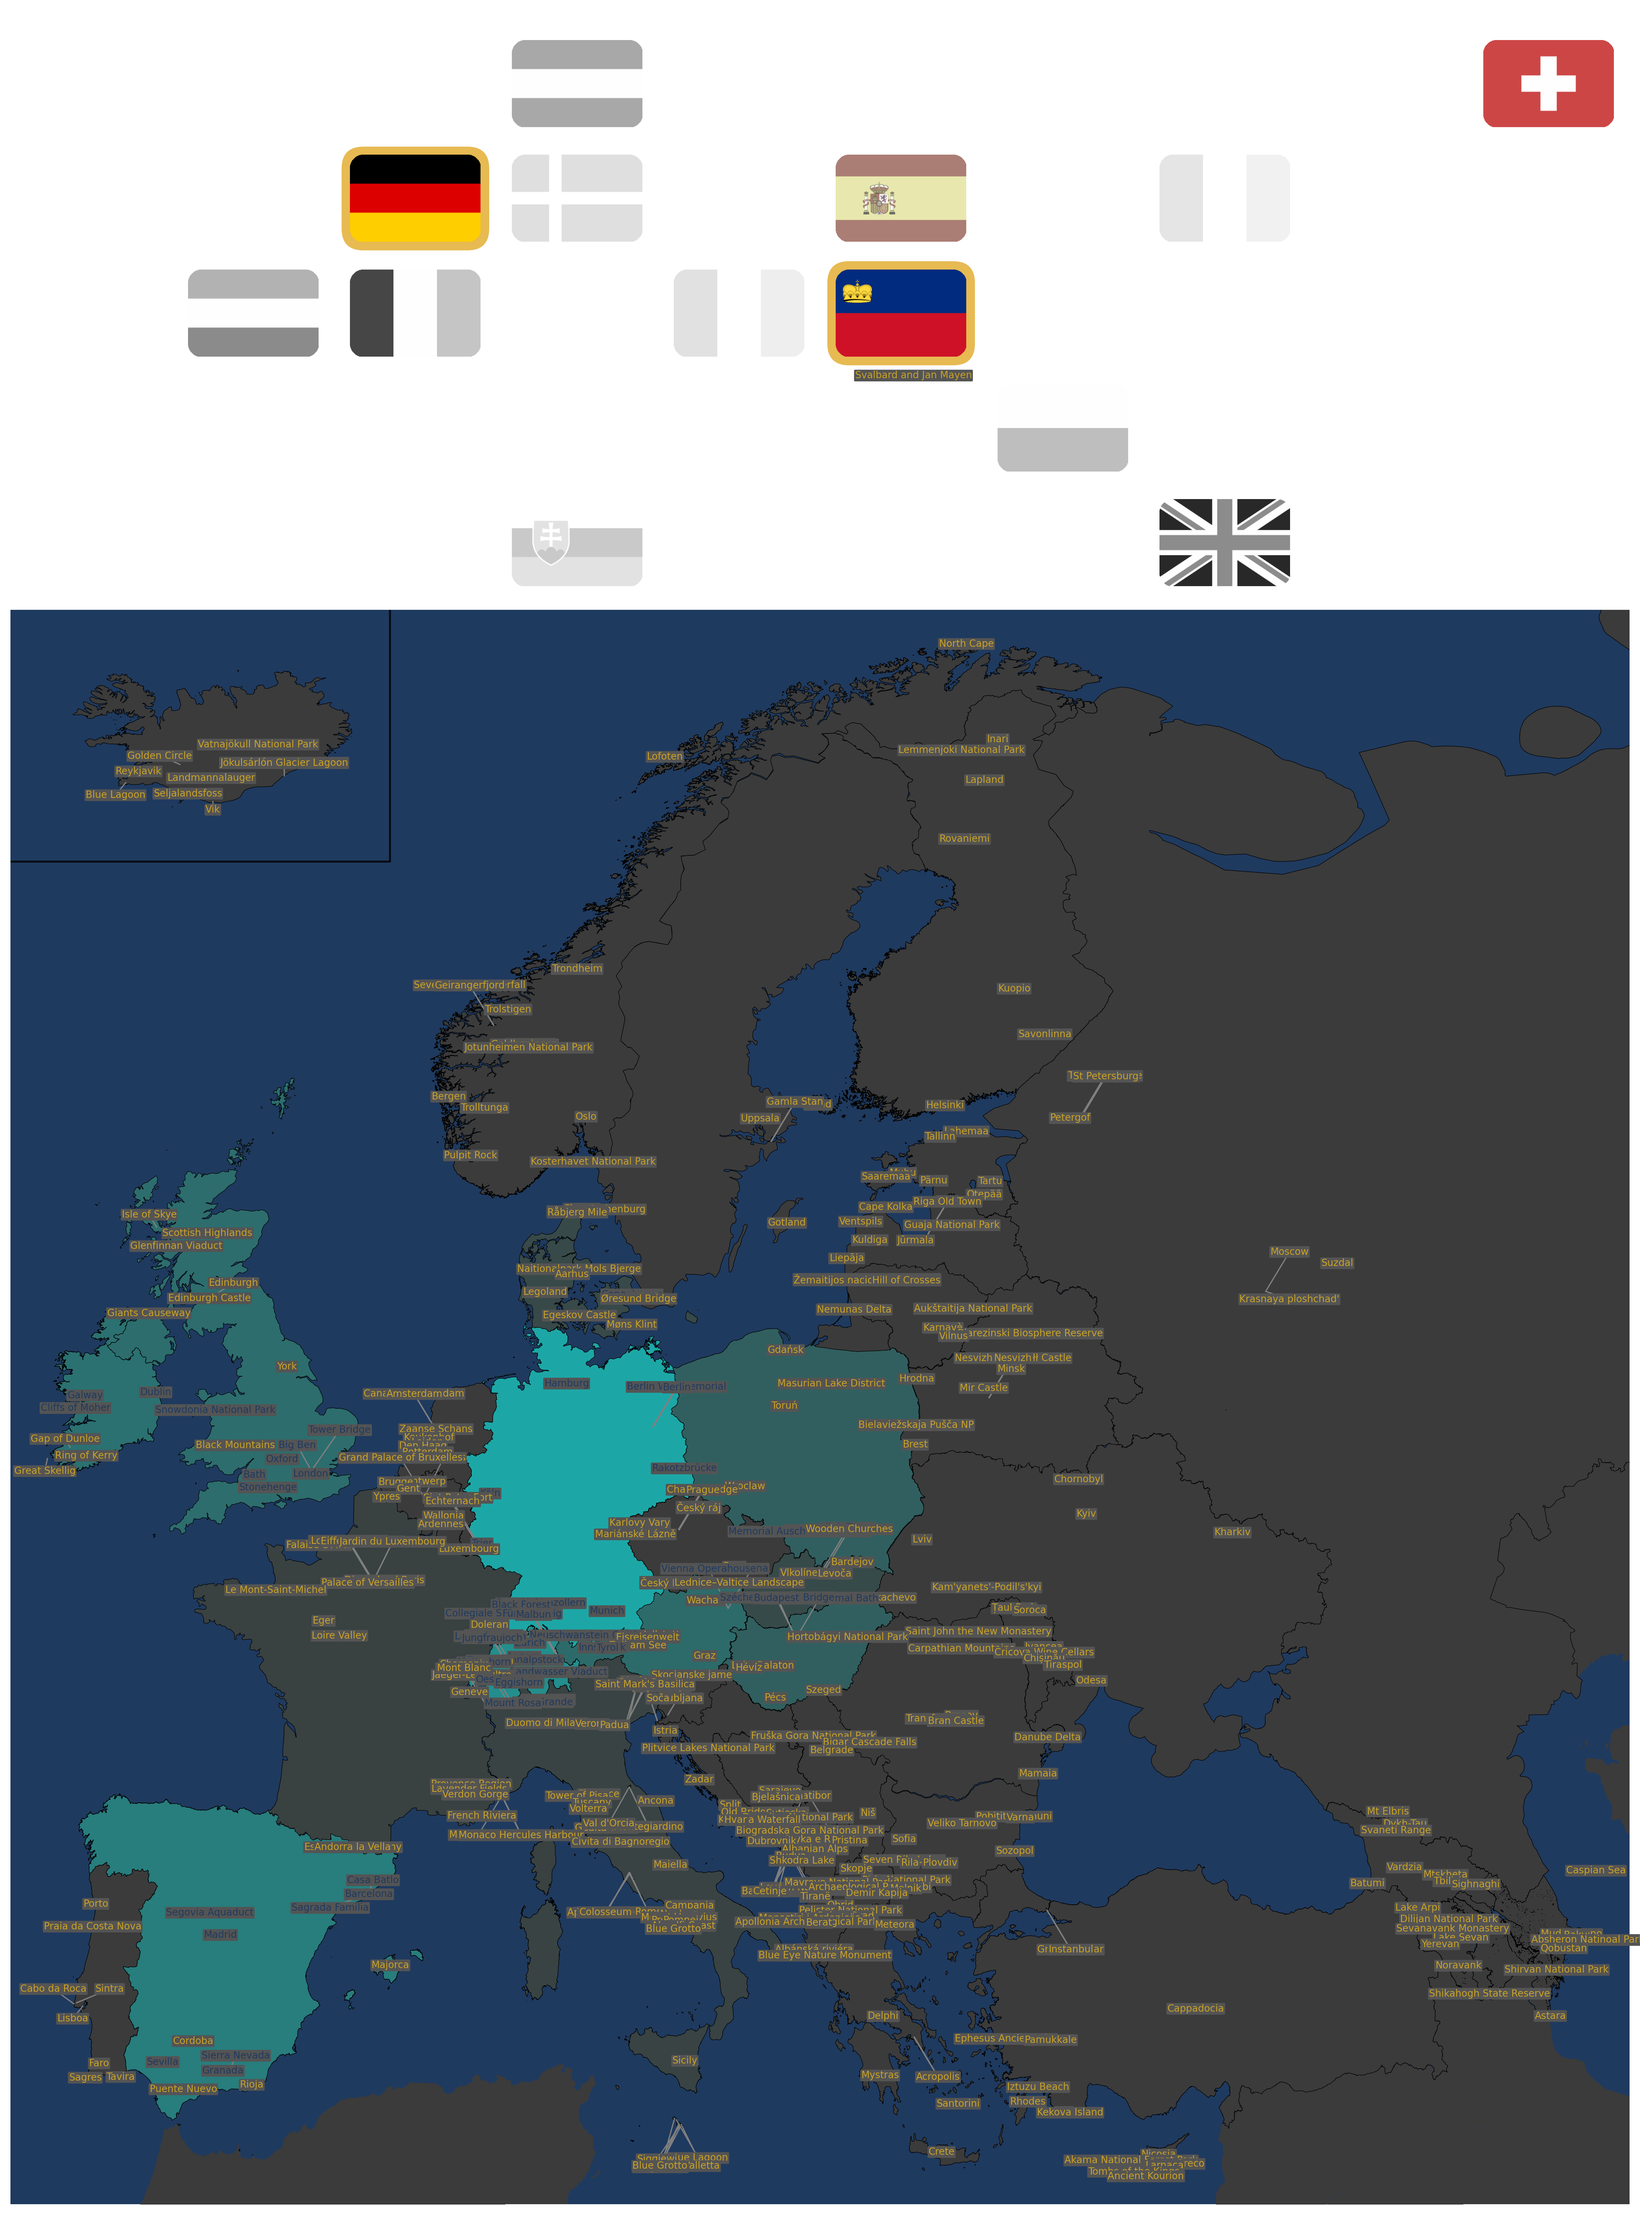
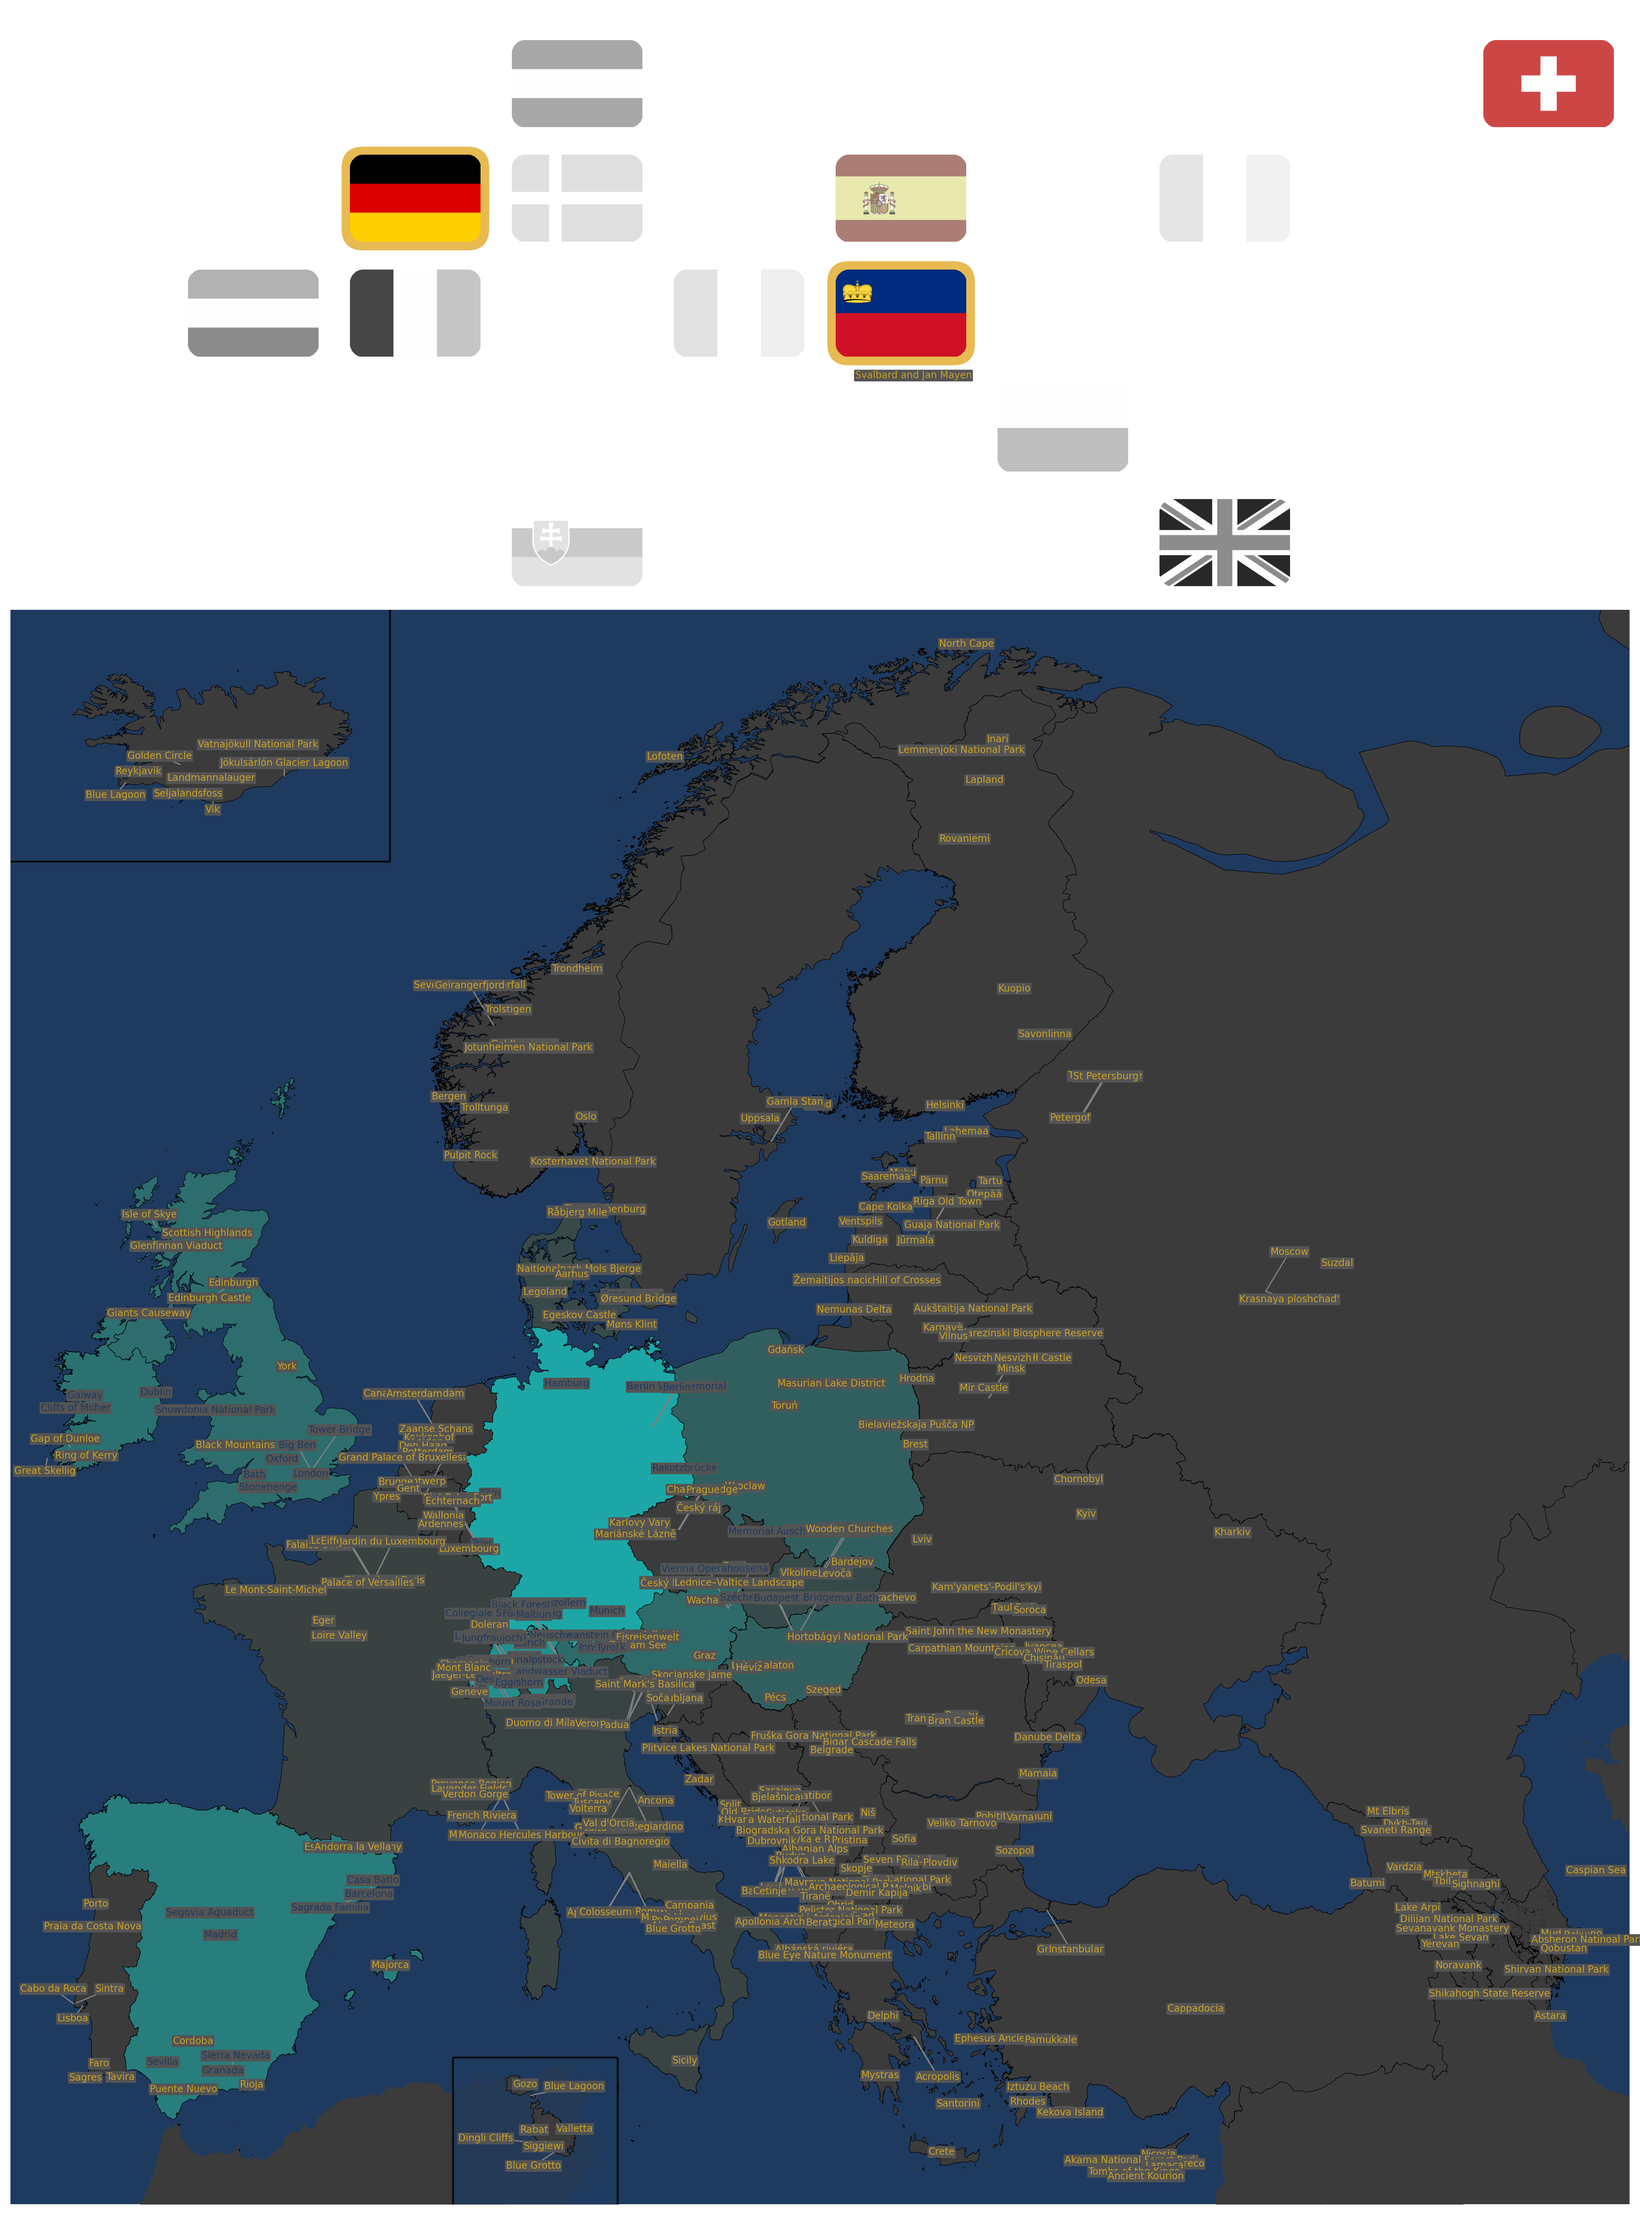
update malta

Changed region(s): [[0.2497, 0.934, 0.4369, 0.9962]]

diff --git a/plotting/plotting_manager.py b/plotting/plotting_manager.py
@@ -173,6 +173,9 @@ class PlotManager:
 
             submap_gdf.plot(ax=ax, edgecolor="black", linewidth=1/self.plot_scale, color=color, alpha=1)
 
+            if submap["Name"] == "MT":
+                print("Malta")
+
         #def expand_regions(gdf, expansions):
 
         #gdf = gdf.copy()
